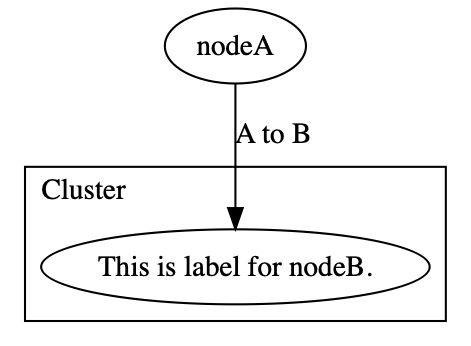
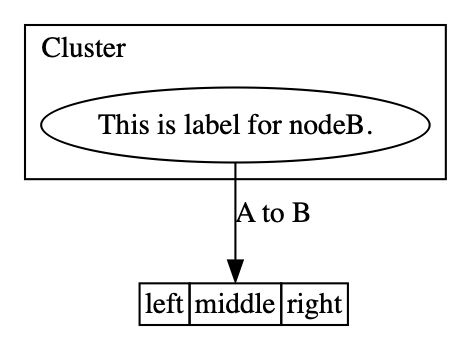
add HTML-Like Support

diff --git a/src/components/HtmlLike.ts b/src/components/HtmlLike.ts
@@ -1,0 +1,128 @@
+/* eslint-disable no-undef */
+import { AttributesValue } from 'ts-graphviz';
+
+export type TableProps = {
+  ALIGN?: 'CENTER' | 'LEFT' | 'RIGHT'; // "CENTER|LEFT|RIGHT"
+  BGCOLOR?: AttributesValue; // "color"
+  BORDER?: AttributesValue; // "value"
+  CELLBORDER?: AttributesValue; // "value"
+  CELLPADDING?: AttributesValue; // "value"
+  CELLSPACING?: AttributesValue; // "value"
+  COLOR?: AttributesValue; // "color"
+  COLUMNS?: AttributesValue; // "value"
+  FIXEDSIZE?: true; // "FALSE|TRUE"
+  GRADIENTANGLE?: AttributesValue; // "value"
+  HEIGHT?: AttributesValue; // "value"
+  HREF?: AttributesValue; // "value"
+  ID?: AttributesValue; // "value"
+  PORT?: AttributesValue; // "portName"
+  ROWS?: AttributesValue; // "value"
+  SIDES?: AttributesValue; // "value"
+  STYLE?: AttributesValue; // "value"
+  TARGET?: AttributesValue; // "value"
+  TITLE?: AttributesValue; // "value"
+  TOOLTIP?: AttributesValue; // "value"
+  VALIGN?: 'MIDDLE' | 'BOTTOM' | 'TOP'; // "MIDDLE|BOTTOM|TOP"
+  WIDTH?: AttributesValue; // "value"
+};
+
+type NoAttributes = {};
+
+export type TrProps = NoAttributes;
+
+export type TdProps = {
+  ALIGN?: 'CENTER' | 'LEFT' | 'RIGHT' | 'TEXT'; // "CENTER|LEFT|RIGHT|TEXT"
+  BALIGN?: 'CENTER' | 'LEFT' | 'RIGHT'; // "CENTER|LEFT|RIGHT"
+  BGCOLOR?: AttributesValue; // "color"
+  BORDER?: AttributesValue; // "value"
+  CELLPADDING?: AttributesValue; // "value"
+  CELLSPACING?: AttributesValue; // "value"
+  COLOR?: AttributesValue; // "color"
+  COLSPAN?: AttributesValue; // "value"
+  FIXEDSIZE?: boolean; // "FALSE|TRUE"
+  GRADIENTANGLE?: AttributesValue; // "value"
+  HEIGHT?: AttributesValue; // "value"
+  HREF?: AttributesValue; // "value"
+  ID?: AttributesValue; // "value"
+  PORT?: AttributesValue; // "portName"
+  ROWSPAN?: AttributesValue; // "value"
+  SIDES?: AttributesValue; // "value"
+  STYLE?: AttributesValue; // "value"
+  TARGET?: AttributesValue; // "value"
+  TITLE?: AttributesValue; // "value"
+  TOOLTIP?: AttributesValue; // "value"
+  VALIGN?: 'MIDDLE' | 'BOTTOM' | 'TOP'; // "MIDDLE|BOTTOM|TOP"
+  WIDTH?: AttributesValue; // "value"
+};
+
+export type FontProps = {
+  color?: AttributesValue; // "color"
+  face?: AttributesValue; // "fontname"
+  point?: AttributesValue; // SIZE="value"
+};
+
+export type BrProps = {
+  ALIGN?: 'CENTER' | 'LEFT' | 'RIGHT'; // "CENTER|LEFT|RIGHT"
+};
+
+export type ImgProps = {
+  SCALE?: boolean | 'WIDTH' | 'HEIGHT' | 'BOTH'; // "FALSE|TRUE|WIDTH|HEIGHT|BOTH"
+  SRC?: AttributesValue; // "value"
+};
+
+export type IProps = NoAttributes;
+
+export type BProps = NoAttributes;
+
+export type UProps = NoAttributes;
+
+export type OProps = NoAttributes;
+export type SubProps = NoAttributes;
+
+export type SupProps = NoAttributes;
+export type SProps = NoAttributes;
+export type HrProps = NoAttributes;
+export type VrProps = NoAttributes;
+
+export enum DOT {
+  PORT = 'dot-port',
+  TABLE = 'dot-table',
+  TR = 'dot-tr',
+  TD = 'dot-td',
+  FONT = 'dot-font',
+  BR = 'dot-br',
+  IMG = 'dot-img',
+  I = 'dot-i',
+  B = 'dot-b',
+  U = 'dot-u',
+  O = 'dot-o',
+  SUB = 'dot-sub',
+  SUP = 'dot-sup',
+  S = 'dot-s',
+  HR = 'dot-hr',
+  VR = 'dot-vr',
+}
+
+declare global {
+  // eslint-disable-next-line @typescript-eslint/no-namespace
+  namespace JSX {
+    interface IntrinsicElements {
+      [DOT.PORT]: { children: string };
+      [DOT.TABLE]: React.PropsWithChildren<TableProps>;
+      [DOT.TR]: React.PropsWithChildren<TrProps>;
+      [DOT.TD]: React.PropsWithChildren<TdProps>;
+      [DOT.FONT]: React.PropsWithChildren<FontProps>;
+      [DOT.BR]: BrProps;
+      [DOT.IMG]: ImgProps;
+      [DOT.I]: React.PropsWithChildren<IProps>;
+      [DOT.B]: React.PropsWithChildren<BProps>;
+      [DOT.U]: React.PropsWithChildren<UProps>;
+      [DOT.O]: React.PropsWithChildren<OProps>;
+      [DOT.SUB]: React.PropsWithChildren<SubProps>;
+      [DOT.SUP]: React.PropsWithChildren<SupProps>;
+      [DOT.S]: React.PropsWithChildren<SProps>;
+      [DOT.HR]: HrProps;
+      [DOT.VR]: VrProps;
+    }
+  }
+}

diff --git a/example/example.tsx b/example/example.tsx
@@ -1,14 +1,26 @@
 import React, { FC } from 'react';
-import { Digraph, Node, Subgraph, renderToDot, Edge } from '../src';
+import { Digraph, Node, Subgraph, renderToDot, Edge, DOT } from '../src';
 
 const Example: FC = () => (
   <Digraph dpi={150}>
-    <Node id="nodeA" />
+    <Node
+      id="nodeA"
+      shape="none"
+      label={
+        <DOT.TABLE BORDER="0" CELLBORDER="1" CELLSPACING="0">
+          <DOT.TR>
+            <DOT.TD>left</DOT.TD>
+            <DOT.TD PORT="m">middle</DOT.TD>
+            <DOT.TD PORT="r">right</DOT.TD>
+          </DOT.TR>
+        </DOT.TABLE>
+      }
+    />
 
     <Subgraph id="cluster" label="Cluster" labeljust="l">
       <Node id="nodeB" label="This is label for nodeB." />
     </Subgraph>
-    <Edge targets={['nodeA', 'nodeB']} comment="Edge from node A to B" label={<b>A to B</b>} />
+    <Edge targets={['nodeB', 'nodeA:m']} comment="Edge from node A to B" label={<DOT.B>A to B</DOT.B>} />
   </Digraph>
 );
 

diff --git a/src/hooks/use-rendered-id.ts b/src/hooks/use-rendered-id.ts
@@ -7,7 +7,11 @@ export function useRenderedID(id?: ReactElement | string): string | undefined {
       return id;
     }
     if (isValidElement(id)) {
-      return `<${renderToStaticMarkup(id)}>`;
+      const htmlLike = renderToStaticMarkup(id)
+        .replace(/<dot-port>(.+?)<\/dot-port>/gi, '<$1>')
+        .replace(/<dot-/gi, '<')
+        .replace(/<\/dot-/gi, '</');
+      return `<${htmlLike}>`;
     }
     return undefined;
   }, [id]);

diff --git a/src/index.ts b/src/index.ts
@@ -8,6 +8,7 @@ export * from './hooks/use-edge';
 export * from './hooks/use-node';
 export * from './hooks/use-rendered-id';
 export * from './hooks/use-root-cluster';
+export * from './components/HtmlLike';
 export * from './components/Graph';
 export * from './components/Digraph';
 export * from './components/Subgraph';
